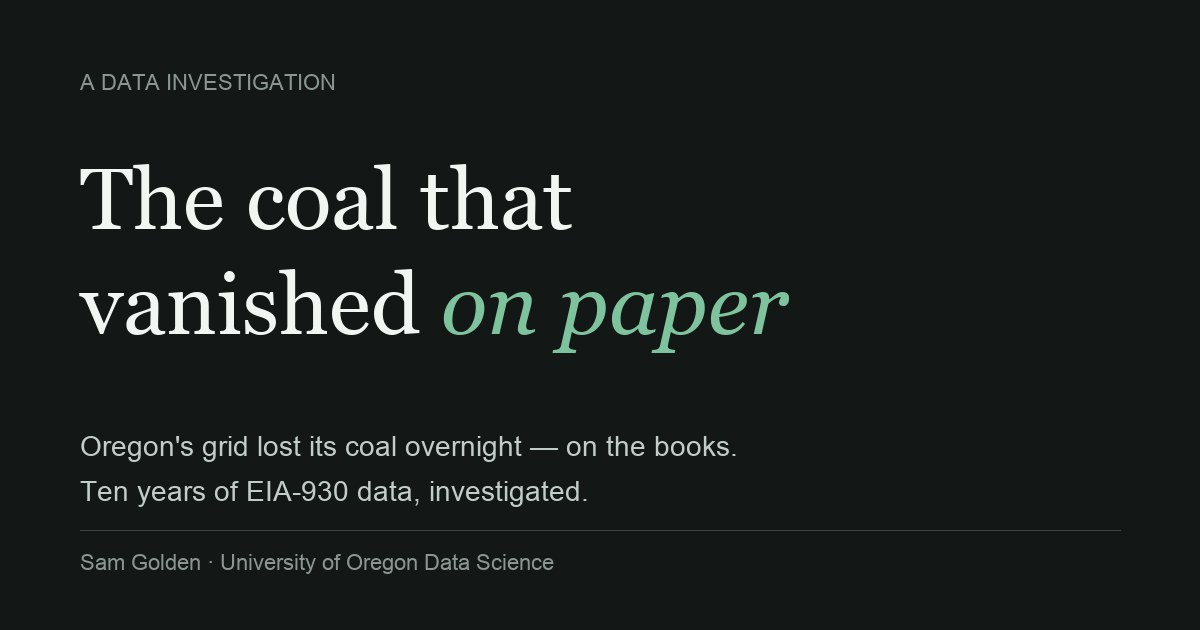
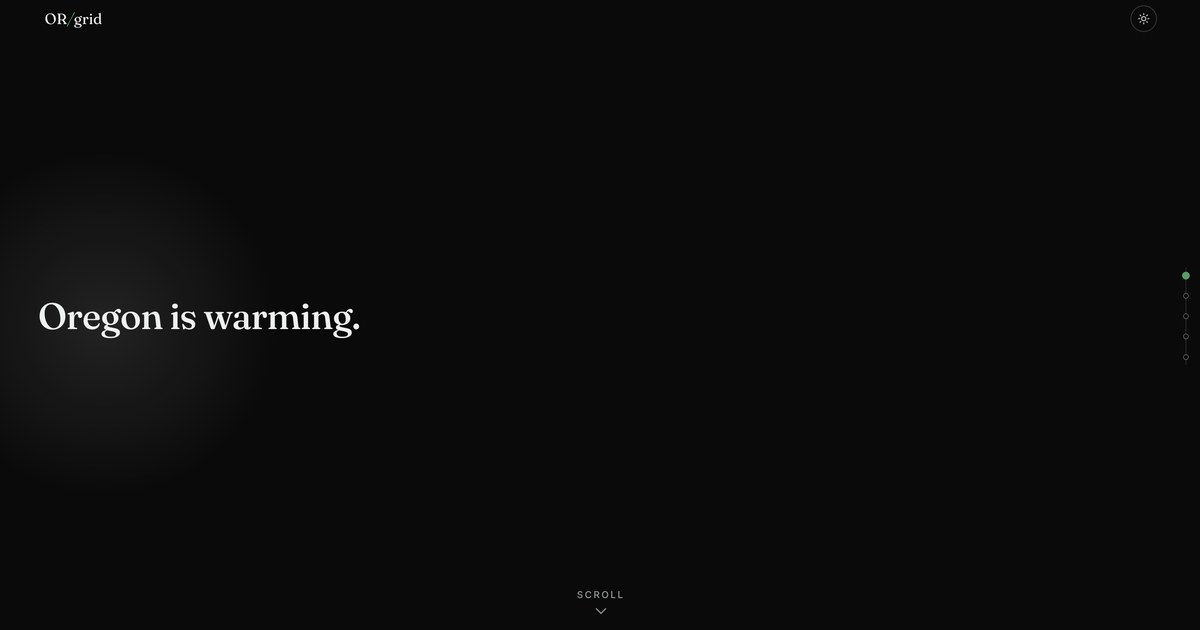
New social thumbnail: hero screenshot as og.jpg, absolute og:image URL
Claude-Session: https://claude.ai/code/session_01QmePfbRersGZYFKx27dgRb

diff --git a/index.html b/index.html
@@ -22,7 +22,10 @@
       content="An interactive tour of a data science thesis: turn the temperature up yourself and watch Oregon's grid respond."
     />
     <meta property="og:type" content="website" />
-    <meta property="og:image" content="/og.jpg" />
+    <meta property="og:image" content="https://oregonenergygrid.netlify.app/og.jpg?v=2" />
+    <meta property="og:image:width" content="1200" />
+    <meta property="og:image:height" content="630" />
+    <meta name="twitter:card" content="summary_large_image" />
     <link rel="preconnect" href="https://fonts.googleapis.com" />
     <link rel="preconnect" href="https://fonts.gstatic.com" crossorigin />
     <link
